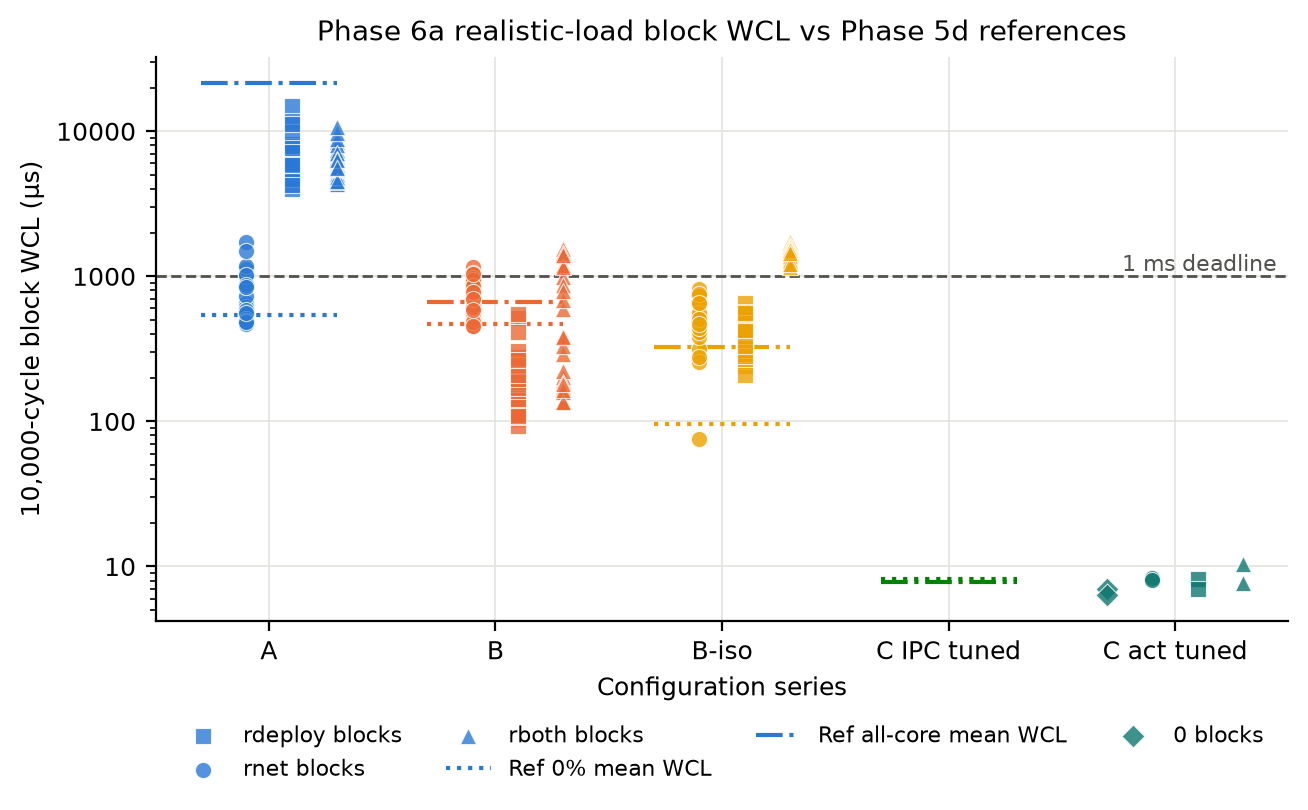
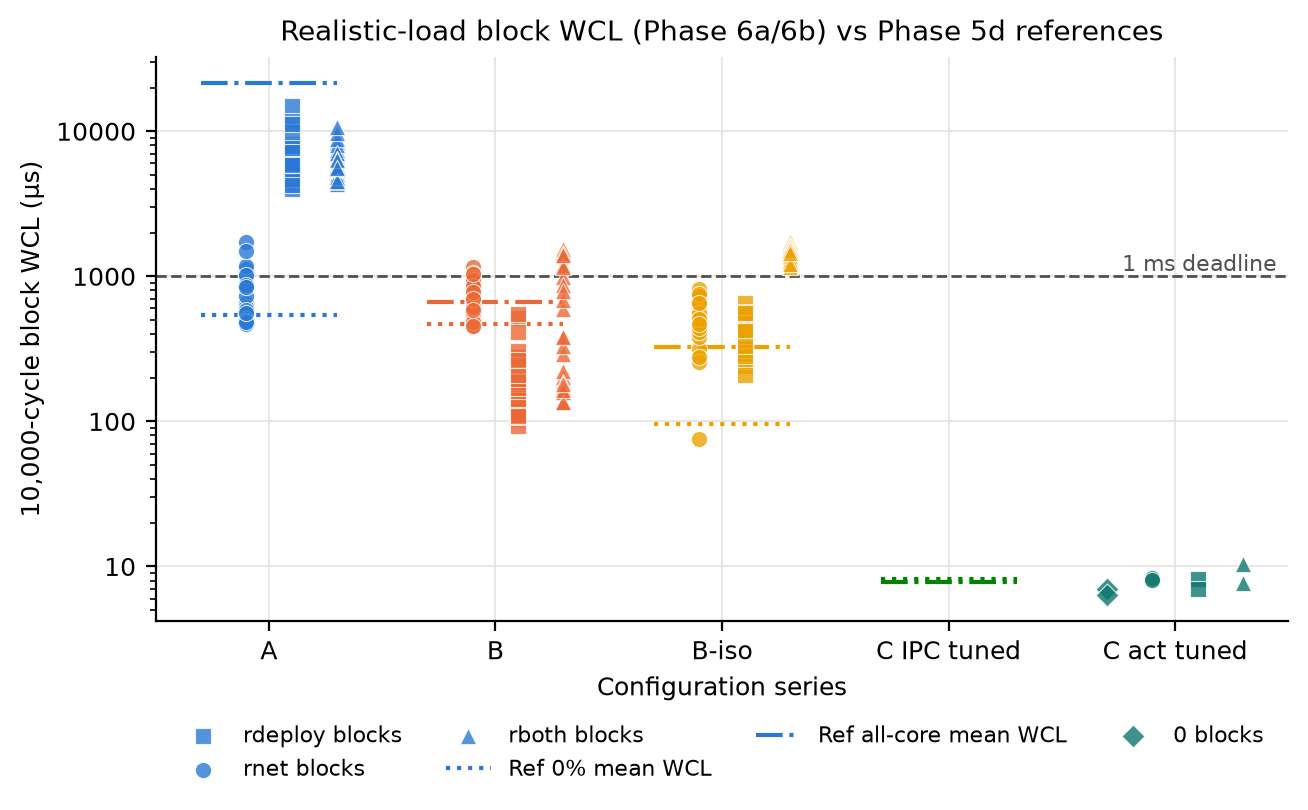
docs: results map, name glossary and folder READMEs; fix realload.md title

Changed region(s): [[0.2141, 0.0, 0.8869, 0.0617]]

diff --git a/benchmarks/analysis/compare_realload.py b/benchmarks/analysis/compare_realload.py
@@ -591,7 +591,7 @@ def _build_markdown(
     if cpu_df is None:
         cpu_df = cpu_interference(long_df)
     lines = [
-        "# Phase 6a Realistic-Load Comparison (R-net, R-deploy & R-both)",
+        "# Realistic-Load Comparison: Phase 6a (A, B, B-iso) and Phase 6b (C act) under R-net, R-deploy & R-both",
         "",
         "## Timing Summary",
         "",
@@ -814,7 +814,7 @@ def _plot_block_wcl(records: list[dict], ref_map: dict[tuple[str, str], tuple[st
     ax.set_xlim(-0.5, len(SERIES_ORDER) - 0.5)
     ax.set_xlabel("Configuration series")
     ax.set_ylabel("10,000-cycle block WCL (µs)")
-    ax.set_title("Phase 6a realistic-load block WCL vs Phase 5d references", fontsize=10)
+    ax.set_title("Realistic-load block WCL (Phase 6a/6b) vs Phase 5d references", fontsize=10)
     if has_points:
         ax.legend(loc="upper center", bbox_to_anchor=(0.5, -0.15), fontsize=8, ncol=4)
     fig.tight_layout()
@@ -1019,7 +1019,7 @@ def main(argv: list[str] | None = None) -> int:
     parser = argparse.ArgumentParser(description=__doc__)
     parser.add_argument("--raw", type=Path, default=repo / "results" / "raw")
     parser.add_argument("--ref", type=Path, default=repo / "results" / "phase5d" / "compare_long.csv")
-    parser.add_argument("--out", type=Path, default=repo / "results" / "phase6a")
+    parser.add_argument("--out", type=Path, default=repo / "results" / "phase6b")
     args = parser.parse_args(argv)
     compare_realload(args.raw, args.ref, args.out)
     return 0

diff --git a/README.md b/README.md
@@ -67,10 +67,57 @@ Every configuration runs the **same minimal 10 ms control tick**; the analytics 
 | 2 | Configs A and B under `stress-ng` 0/50/100 % + Tests 1–5 (I/O, endurance, affinity, mlock, FIFO vs RR) | Done |
 | 4.5 | Config C baseline: MCU timing under Linux stress, no IPC | Done |
 | 5 / 5b–5d | Config C with IPC, tuned variant, repeats, fair three-way comparison | Done |
-| 6a | Realistic load tiers `rnet` / `rdeploy` (and `rboth`) for A, B, B-iso | Runs in progress |
-| 6b | Full chain to an emulated drive (Config C `act`) | Runs in progress |
+| 6a | Realistic load tiers `rnet` / `rdeploy` / `rboth` for A, B, B-iso (2 repeats) | Done |
+| 6b | Full chain to an emulated drive (Config C `act`, 4 load tiers, 2 repeats) | Done |
 
 **Milestones:** M3 presentation + demo on Dec 1, 2026; M4 final report (IEEE format, ≤ 15 pages) on Jan 5, 2027.
+
+---
+
+## 🗺 Where to Find the Results
+
+**Start here (headline results):**
+
+| Question | File |
+| :--- | :--- |
+| A vs B vs B-iso vs C under synthetic `stress-ng` load (one lateness definition for all) | `results/phase5d/compare_configs.md` (+ `wcl_by_tier.png`, `cdf_100.png`, `cdf_allcore.png`) |
+| The same configs under realistic load (`rnet`, `rdeploy`, `rboth`) | `results/phase6b/realload.md` (+ `block_wcl.png`, `cpu3_kernel_work.png`) |
+| Does every speed command reach the emulated drive, and how fast? | `results/phase6b/drive.md` |
+
+**Every phase, from board run to result** (all paths relative to the repository root; the board scripts run on the UNO Q, the harness and analysis on the PC):
+
+| Phase | What it tests | Run with | Raw data in `results/raw/` | Analysis (`benchmarks/analysis/` unless noted) | Results |
+| :--- | :--- | :--- | :--- | :--- | :--- |
+| 2 | A and B under `stress-ng` 0 / 50 / 100 % | `benchmarks/run_benchmark.sh` | `A_*.csv`, `B_*.csv` | `analyze_latency.py` | `results/summary.md`, `results/plots/lateness_*.png` |
+| 2 (Tests 1–5) | I/O contention, 10,000-cycle endurance, core affinity, `mlockall`, FIFO vs RR | `benchmarks/run_advanced_experiments.sh` | `test1_*.csv` … `test5_*.csv` | `results/parse_advanced_metrics.py`, `results/plot_advanced_results.py` | `results/plots/test*.png` |
+| 4.5 | Config C baseline: MCU loop under Linux stress, no IPC (first referee) | harness modes `sanity`, `0`, `50`, `100` | `C_*.csv`, `config_c_dwt_*.csv`, `config_c_referee_*.csv` | `analyze_latency.py`, `analyze_referee.py` | `results/summary.md` (C rows), `results/referee_p45.md` |
+| Clock check | Why the MCU's Zephyr clock drifts against its DWT counter | `benchmarks/diagnostics/run_clock_check.py` | `clock_diagnostics_2026-10-19.csv` | same script | `results/clock_diagnostics_summary.md` |
+| 5 | Config C with IPC (Linux setpoints over RouterBridge); baseline re-run with the DWT referee | harness `b2-*`, `ipc-*` | `baseline_dwtref/`, `ipc/` | `analyze_latency.py`, `analyze_referee.py`, `analyze_ipc.py`, `pulse_pattern.py`, `compare_baseline_ipc.py` | `results/baseline_dwtref/`, `results/ipc/` (`compare_baseline_vs_ipc.md`) |
+| 5b / 5c | Repeats; tuned variant (MCU loop above the bridge thread); stock baseline repeat 4 | harness `b2-*`, `ipc-*`, `b2t-*`, `ipct-*` with `--rep N` | `*_r2/`, `*_r3/`, `baseline_dwtref_r4/`, `baseline_tuned*/`, `ipc_tuned*/` | the Phase 5 scripts + `aggregate_repeats.py`, `ipc_attribution.py` | `results/phase5b/`, one `results/<folder>/` per raw folder |
+| 5d | Fair comparison of A, B, B-iso and C, incl. all-core stress | `benchmarks/run_benchmark_5d.sh`; harness `*-allcore` | `linux_r1/`–`linux_r3/`, `*_allcore*/` | `compare_configs.py` (+ `aggregate_repeats.py`, `ipc_attribution.py`) | **`results/phase5d/`**, `results/linux_r*/` |
+| 6a | A, B, B-iso under realistic load (`rnet`, `rdeploy`, `rboth`) | `benchmarks/run_benchmark_6r.sh` + `benchmarks/realload/pc_traffic.py` | `real_r1/`, `real_r2/`, `real_calibration/` | `compare_realload.py` | **`results/phase6b/realload.md`** (Phase 6a and 6b are analysed together) |
+| 6b | Full chain: Config C under the same loads, speed command as 500 Hz PWM to board 3 | harness `act-*`; PWM check `benchmarks/diagnostics/run_pwm_loopback.py` | `act_tuned*/`, `pwm_loopback_2026-11-17/` | `compare_realload.py`, `analyze_drive.py` | **`results/phase6b/`**, `results/diagnostics/pwm_loopback_summary.md` |
+
+More detail: `results/README.md` (every results folder) and `benchmarks/analysis/README.md` (every analysis script).
+
+## 🔤 Folder and File Names
+
+| Name | Meaning |
+| :--- | :--- |
+| `A`, `B`, `B-iso` (`_iso`) | The Linux configs (see "What Is Measured"); `_iso` = B on an isolated core 3 (affinity only, no `isolcpus`). |
+| `C`, `config_c_*` | Config C (MCU loop on the STM32). |
+| `baseline` | Config C without IPC: the MCU loop runs, Linux sends nothing. |
+| `ipc` | Config C with IPC: Linux analytics send setpoints to the MCU ("latest value wins"). |
+| `dwtref`, `b2` | Runs timed by the second, DWT-based referee (Phase 5 on); `b2` is the harness name for the baseline variant. |
+| `tuned`, `b2t`, `ipct` | The MCU loop runs at thread priority 4, above RouterBridge's `bridge` thread (5); "stock" = loop at 14, below it. |
+| `act` | Tuned IPC plus the PWM speed command to the drive board (Phase 6b). |
+| `0`, `50`, `100` | `stress-ng` load in %, on core 0. |
+| `allcore` | `stress-ng` on all four cores. |
+| `rnet`, `rdeploy`, `rboth` | Realistic load: bulk network traffic from the PC / a sensor stream into a containerised CNN / both at once. |
+| `_r2`, `_r3`, … | Repeat number; no suffix = repeat 1. `real_r<N>` and `linux_r<N>` are the Linux repeats. |
+| `sanity` | A 20-cycle wiring and readout check before each run; not analysed. |
+| `p45` | Phase 4.5. |
+| `L_rel`, WCL, DMR | Lateness relative to the run's best cycle, worst-case lateness, deadline-miss rate at 1 ms (see `results/phase5d/compare_configs.md`). |
 
 ---
 
@@ -79,7 +126,8 @@ Every configuration runs the **same minimal 10 ms control tick**; the analytics 
 ```
 CCU_OS_Term Project/
 ├── README.md
-├── docs/                          # Scope statement, progress reports, submitted documents
+├── Operating System Term Project.pdf   # The course's assignment sheet
+├── docs/                          # Scope statement, progress reports, submitted documents (see docs/README.md)
 ├── data/                          # CWRU download/slicing script; processed frames in data/processed/
 ├── mpu_linux/                     # Linux benchmark for Configs A/B (dual_thread_bench.c, FFT, Makefile)
 ├── benchmarks/
@@ -94,8 +142,9 @@ CCU_OS_Term Project/
 │   └── tests/                     # Harness tests (mocked boards)
 ├── results/
 │   ├── raw/                       # Original measurements (read-only)
-│   ├── phase5b/, phase5d/, ...    # Generated summaries, tables and plots per phase
-│   └── plots/
+│   ├── phase5b/, phase5d/, phase6b/   # Cross-run summaries per phase (headline results)
+│   ├── <raw folder name>/         # Per-run-set analysis (e.g. ipc_tuned_r2/), same name as in raw/
+│   └── plots/                     # Phase 2 / 4.5 figures (see results/README.md)
 ├── paper_ieee/                    # IEEEtran report sources and presentation slides
 └── unused/                        # Files no longer used (see unused/README.md)
 ```

diff --git a/results/README.md b/results/README.md
@@ -1,0 +1,46 @@
+# results/
+
+Everything here is either **original measurements** (`raw/`) or **generated by a script** from them. Nothing is edited by hand. The phase-by-phase map (which board script made which raw folder, and which analysis script reads it) is in the top-level `README.md`, section "Where to Find the Results".
+
+## Headline results
+
+| File | Content |
+| :--- | :--- |
+| `phase5d/compare_configs.md` | A, B, B-iso and Config C (stock / tuned, with / without IPC) under `stress-ng` 0 / 50 / 100 % and all-core, one lateness definition (`L_rel`) for all. Charts: `wcl_by_tier.png`, `cdf_100.png`, `cdf_allcore.png`. |
+| `phase6b/realload.md` | The same configs under realistic load (`rnet`, `rdeploy`, `rboth`), 2 repeats, with load evidence per run and the "Kernel work on CPU 3" table. Charts: `block_wcl.png`, `cpu3_kernel_work.png`. |
+| `phase6b/drive.md` | Phase 6b full chain: every speed command checked at the emulated drive (lost / wrong / extra), delays from tick to drive. |
+
+## Folder layout
+
+| Folder or file | Made by | Content |
+| :--- | :--- | :--- |
+| `raw/` | the board scripts and the Config C harness | Original measurements, read-only (see below). |
+| `phase5b/` | `aggregate_repeats.py`, `ipc_attribution.py`, `pulse_pattern.py` | Config C repeats summary, how often late pulses coincide with IPC messages, pulse-interval pattern. |
+| `phase5d/` | `compare_configs.py` (+ `aggregate_repeats.py`, `ipc_attribution.py` with all-core runs) | Headline comparison under synthetic load; `compare_long.csv` = one row per run. |
+| `phase6b/` | `compare_realload.py`, `analyze_drive.py` | Headline results under realistic load (Phase 6a and 6b together; there is no `phase6a/` folder). `*_long.csv` = one row per run; `cpu_interference.csv` = per-CPU kernel work per Linux run. |
+| `baseline_dwtref*/`, `baseline_tuned*/`, `ipc*/`, `ipc_tuned*/` | `analyze_latency.py`, `analyze_referee.py`, `analyze_ipc.py` | Per-run-set analysis, one folder per raw folder of the same name: `summary.md` (lateness KPIs), `referee_vs_dut.md` (referee board vs the DUT's own clock), `ipc_summary.md` (IPC folders: message delivery and round trip). `ipc/` also holds `compare_baseline_vs_ipc.md` and `pulse_pattern.md`. |
+| `linux_r1/` – `linux_r3/` | `analyze_latency.py` | Phase 5d Linux repeats (A, B, B-iso), `summary.md` per repeat. |
+| `diagnostics/` | `benchmarks/diagnostics/run_pwm_loopback.py` | PWM loopback check on board 3 (Phase 6b design check). |
+| `summary.md`, `summary.csv`, `plots/lateness_*.png` | `analyze_latency.py` on the files in the root of `raw/` | Phase 2 (A, B) and Phase 4.5 (Config C baseline) results. |
+| `plots/test*.png` | `plot_advanced_results.py` | Tests 1–5 (Phase 2). |
+| `referee_p45.md`, `referee_p45.csv` | `analyze_referee.py` | Phase 4.5: first referee vs the DUT clock. |
+| `clock_diagnostics_summary.md` | `benchmarks/diagnostics/run_clock_check.py` | Why the MCU's Zephyr clock drifts against its DWT counter (2026-10-19). |
+| `parse_advanced_metrics.py`, `plot_advanced_results.py` | — | Analysis scripts for Tests 1–5 (they live here, not in `benchmarks/analysis/`). |
+
+## `raw/` (original measurements, never edited)
+
+| Files or folders | Phase | Written by |
+| :--- | :--- | :--- |
+| `A_0.csv` … `B_100.csv` (root) | 2 | `benchmarks/run_benchmark.sh` |
+| `test1_*.csv` … `test5_*.csv` (root) | 2, Tests 1–5 | `benchmarks/run_advanced_experiments.sh` |
+| `C_0.csv` … `C_100.csv`, `config_c_dwt_*.csv`, `config_c_referee_*.csv` (root) | 4.5 | Config C harness (first referee, `k_cycle_get_32()` timestamps) |
+| `clock_diagnostics_2026-10-19.csv` (root) | clock check | `benchmarks/diagnostics/run_clock_check.py` |
+| `baseline_dwtref[_rN]/`, `ipc[_rN]/` | 5 | harness `b2-*`, `ipc-*` |
+| `baseline_tuned[_rN]/`, `ipc_tuned[_rN]/`, `baseline_dwtref_r4/` | 5b / 5c | harness `b2t-*`, `ipct-*`, `b2-*` |
+| `*_allcore[_rN]/`, `linux_r1/` – `linux_r3/` | 5d | harness `*-allcore`; `benchmarks/run_benchmark_5d.sh` |
+| `real_r1/`, `real_r2/`, `real_calibration/` | 6a | `benchmarks/run_benchmark_6r.sh`; model-width calibration |
+| `act_tuned[_<tier>][_rN]/` | 6b | harness `act-*` |
+| `pwm_loopback_2026-11-17/` | 6b design check | `benchmarks/diagnostics/run_pwm_loopback.py` |
+| `archive/` (local only, not in git) | — | Early test files, old sanity outputs, a failed run and two aborted runs; the aborted `real_r*_rnet_aborted_*` folders have a `README.txt` explaining the cause. |
+
+**File formats:** Linux files (`A_*`, `B_*`, `test*`, `real_r*/`, `linux_r*/`): one row per 10 ms cycle with `cycle, scheduled_ns, actual_wake_ns, lateness_ms, is_miss, …`. Config C: `C_*.csv` = DWT wake timestamps in 160 MHz cycles; `config_c_referee_*` = intervals measured by the referee board (row 0 is the gap before the first pulse and is excluded); IPC folders add `config_c_ipc_seq_*` (setpoint applied in each cycle) and `config_c_ipc_sender_*` (Linux send log); `act_*` folders add `config_c_act_*` (PWM writes) and `config_c_drive_*` (what board 3 saw). Lines starting with `#` are metadata. `env_*`, `counters_*`, `thermal_*`, `analytics_*` and `pc_traffic_*` files record the load, kernel counters, temperature and the PC traffic of each run.

diff --git a/benchmarks/analysis/README.md b/benchmarks/analysis/README.md
@@ -1,4 +1,33 @@
-# Latency analysis
+# Analysis scripts
+
+All scripts run on the PC (`.venv\Scripts\python <script> --help` for options), read only `results/raw/`, and write to `results/`. Each has a test file `test_<name>.py` with synthetic data (`cd benchmarks/analysis; python -m pytest -q`; nothing is written to `results/`).
+
+| Script | Phase | Reads | Writes | What it computes |
+| :--- | :--- | :--- | :--- | :--- |
+| `analyze_latency.py` | 2, 4.5, 5, 5d | the per-cycle CSVs of one raw folder (`--raw`) | `summary.{md,csv}` and plots in `--out` | Lateness KPIs per run: mean, σ_L, p99, p99.9, WCL, DMR at 0.2 / 1 ms (details below). |
+| `analyze_referee.py` | 4.5, 5 | `config_c_dwt_*` + `config_c_referee_*` (`--raw`) | `referee_vs_dut.{md,csv}` (`--out`) | The referee board's view of each Config C run against the DUT's own DWT clock (period, offset in ppm, jitter, misses). |
+| `analyze_ipc.py` | 5, 5b, 5d | `config_c_ipc_seq_*`, `config_c_ipc_sender_*` | `ipc_summary.{md,csv}` | Setpoint delivery over RouterBridge: messages sent / applied, round trip, age of the applied setpoint. |
+| `pulse_pattern.py` | 5, 5b | `config_c_dwt_*` | `pulse_pattern.{md,csv}` | Periodic disturbances in the MCU pulse intervals. |
+| `compare_baseline_ipc.py` | 5 | `results/summary.csv`, `results/baseline_dwtref/`, `results/ipc/` summaries | `results/ipc/compare_baseline_vs_ipc.md` | Phase 4.5 baseline vs DWT-referee re-run vs IPC, per stress tier. |
+| `aggregate_repeats.py` | 5b, 5d | the per-folder `results/*/summary.csv` | `repeats_summary.md`, `repeats_long.csv` (`--out`) | Config C repeats: mean [min–max] over repeats per variant and tier. |
+| `ipc_attribution.py` | 5b, 5d | IPC raw folders (`--raw`, several) | `ipc_attribution.{md,csv}` | How often a late MCU pulse coincides with a setpoint arrival. |
+| `compare_configs.py` | 5d | `linux_r*/` and all Config C folders | `results/phase5d/` | **Headline comparison** of A, B, B-iso and C under `stress-ng`, one lateness definition (`L_rel`). |
+| `compare_realload.py` | 6a, 6b | `real_r*/`, `act_tuned*/`, `results/phase5d/compare_long.csv` (`--ref`) | `results/phase6b/` (`--out`) | **Headline comparison** under realistic load; load evidence per run; kernel work per CPU (`cpu_interference.csv`). |
+| `analyze_drive.py` | 6b | `act_tuned*/` (`config_c_act_*`, `config_c_drive_*`, IPC logs) | `results/phase6b/drive.md`, `drive_long.csv` | Every speed command matched at the emulated drive: lost / wrong / extra, tick-to-drive delays. |
+
+The commands that produced the committed results:
+
+```bash
+# Phase 5d (from the repository root)
+python benchmarks/analysis/compare_configs.py --raw results/raw --out results/phase5d
+# Phase 6a + 6b
+python benchmarks/analysis/compare_realload.py --raw results/raw --ref results/phase5d/compare_long.csv --out results/phase6b
+python benchmarks/analysis/analyze_drive.py --raw results/raw --out results/phase6b
+```
+
+Tests 1–5 (Phase 2) use `results/parse_advanced_metrics.py` and `results/plot_advanced_results.py`.
+
+## `analyze_latency.py` in detail
 
 `analyze_latency.py` turns raw per-cycle logs from the benchmark runs into the
 KPIs defined in `docs/Project_Scope_Statement.md` §4.3.2 and the figures listed in §5.

diff --git a/benchmarks/realload/README.md b/benchmarks/realload/README.md
@@ -1,0 +1,13 @@
+# realload/ — realistic Linux load (Phase 6a / 6b)
+
+The load the DUT's Linux side carries in the `rnet`, `rdeploy` and `rboth` tiers. It replaces synthetic `stress-ng` with work a deployed edge controller really does.
+
+| File | Runs on | What it does |
+| :--- | :--- | :--- |
+| `realload.sh` | DUT (Linux) | `start <tier> <label> <outdir> <pc_ip> [iso]`, `check <tier>`, `stop`, `status`. Starts the tier's receivers, a sampler (CPU load, temperature, frequency every ≈ 10 s) and `/proc` counter snapshots; `check` confirms the load is really there (`LOADCHECK OK` / `FAIL`). Called by `benchmarks/run_benchmark_6r.sh` and the Config C harness. |
+| `pc_traffic.py` | PC | `bulk` = TCP bulk traffic to port 5557 (≈ 6.5 MB/s over Wi-Fi); `ingest` = a 12 kHz float32 sensor stream (48,000 B/s) to port 5555. Writes a JSON summary (bytes, rate, reconnects). |
+| `Dockerfile`, `analytics_node.py`, `make_model.py` | DUT (Docker image `realload:1`) | The `rdeploy` analytics node: receives the sensor stream, cuts 1,024-sample windows and runs a small 1D-CNN with ONNX Runtime (3 threads), ≈ 11.7 inferences/s. The CNN has fixed-seed **random weights on purpose**: it is background load, not a fault classifier. |
+| `model_width.txt` | both | The CNN width chosen by calibration (one inference ≈ 40 ms on the board); raw calibration data in `results/raw/real_calibration/`. |
+| `tests/` | PC | `python -m pytest -q benchmarks/realload/tests` |
+
+Tiers: `rnet` = `socat` sink on port 5557 + PC `bulk`; `rdeploy` = the analytics container on port 5555 + PC `ingest`; `rboth` = both at once. In the B-iso runs the receivers, the container and the sampler are limited to CPUs 0–2.

diff --git a/docs/README.md b/docs/README.md
@@ -1,0 +1,13 @@
+# docs/
+
+Course deliverables and planning documents. The course's assignment sheet is `../Operating System Term Project.pdf`.
+
+| File | What it is | Status |
+| :--- | :--- | :--- |
+| `Project_Scope_Statement.md` (`.pdf`) | The project's specification: research question, configurations, methodology and metric definitions (§4.3), hypotheses (§8). Code and analysis cite its section numbers. | Reference. Its milestone dates (Oct 20 / Nov 10 / Dec 29) are the old ones, and it still mentions a CNN in the measured workload, which the project dropped (the analytics are FFT + rules; the Phase 6 CNN is background load only). |
+| `Operating System_Project abstract.pdf`, `Abstract and Intro.docx` | M1 project abstract (PDF) and its Word draft with the introduction. | M1 (Sep 29) |
+| `Operating System_Progress Report.pdf`, `Progress Report - Heterogeneous OS Benchmarking on the Arduino UNO Q.docx` | M2 progress report (PDF) and its Word source. | M2 (Oct 27) |
+| `Week_04_06_Progress_Report.md` | Lab progress report, weeks 4–6 (Phase 2, Config C baseline). | Done |
+| `Week_07_10_Progress_Report.md` | Lab progress report, weeks 7–10 (Phase 5). | Draft: some values still marked TBD |
+
+Current milestones: M3 presentation + demo on Dec 1, 2026; M4 final report (IEEE format, ≤ 15 pages) on Jan 5, 2027; sources in `../paper_ieee/`.

diff --git a/benchmarks/drive_emu/README.md b/benchmarks/drive_emu/README.md
@@ -1,0 +1,9 @@
+# drive_emu/ — emulated motor drive (board 3, Phase 6b)
+
+An Arduino App for a **third UNO Q** that plays the motor drive in the full chain: the DUT's MCU sends the speed command as a 500 Hz PWM signal, and this board records when each new command arrives.
+
+- **Wiring:** DUT D3 (PWM speed command) → board 3 D8; DUT D2 (tick) → board 3 D2; grounds joined.
+- **MCU (`sketch/`):** interrupts on D2 (tick) and on both edges of D8 (PWM), timestamped with the DWT cycle counter (160 MHz). A **change event** is a PWM period whose high time differs from the previous one by more than 20 µs (1 % of the 2 ms period). Duty = 0.8 × setpoint, so the drive decodes `setpoint = 125 × high / period`. RPCs: `start_capture`, `stop_capture`, `get_info`, `get_events_chunk`.
+- **Linux side (`python/main.py`):** command file `/tmp/drive_cmd` (`START`, `STOP <csv path>`), status file `/tmp/drive_status` (`READY`, `RECORDING`, `STOPPED <n> <file>`), driven by the Config C harness (`act-*` modes).
+- **Output:** `config_c_drive_<tag>.csv` in the run's raw folder; analysed by `benchmarks/analysis/analyze_drive.py`.
+- Deployed at `/tmp/drive_emu` on board 3. While the wires are connected, only this app may run on board 3.

diff --git a/benchmarks/referee/README.md b/benchmarks/referee/README.md
@@ -1,0 +1,9 @@
+# referee/ — the external timing referee (board 2)
+
+An Arduino App for a **second UNO Q** that times the DUT's 10 ms loop from outside, so Config C is not judged only by the DUT's own clock.
+
+- **Wiring:** DUT D2 → referee D2, grounds joined. The DUT raises D2 for 500 µs at every tick.
+- **MCU (`sketch/`):** an interrupt on each rising edge of D2 stores the time since the previous edge, read from the referee's own DWT cycle counter (160 MHz), for up to 10,000 edges. RPCs for the Linux side: `start_capture`, `stop_capture`, `get_count`, `get_delta_at`, `get_deltas_chunk`.
+- **Linux side (`python/main.py`):** polls the command file `/tmp/referee_cmd` (`START <n>`, `STOP <csv path>`) and reports its state in `/tmp/referee_status` (`READY`, `RECORDING`, `STOPPED <n> <file>`). The Config C harness writes these files through `docker exec`.
+- **Output:** `config_c_referee_<tag>.csv` in the run's raw folder (row 0 = the gap before the first pulse; excluded from analysis).
+- Deployed as the app `referee_bench`. The first referee (Phase 4.5) used `k_cycle_get_32()`; this DWT version is used from Phase 5 on (the `dwtref` runs).

diff --git a/benchmarks/diagnostics/README.md b/benchmarks/diagnostics/README.md
@@ -1,0 +1,10 @@
+# diagnostics/ — one-off hardware checks
+
+Checks that answer a design question before or beside the main runs. Each runner can also recompute its summary from saved raw data without hardware.
+
+| Check | Files | Question | Raw data → summary |
+| :--- | :--- | :--- | :--- |
+| Clock check (2026-10-19) | `clock_check/` (sketch), `run_clock_check.py` | Why does the MCU's Zephyr clock (`k_cycle_get_32()`, `micros()`) drift against its DWT cycle counter? (It loses cycles, mostly while asleep.) | `results/raw/clock_diagnostics_2026-10-19.csv` → `results/clock_diagnostics_summary.md`; recompute with `--from-csv` |
+| PWM loopback (2026-11-17) | `pwm_loopback/` (app), `run_pwm_loopback.py` | Can a 500 Hz PWM signal carry the speed command from the DUT to the drive board, and when does a new duty take effect? (Jumper D3 → D8 on one board.) | `results/raw/pwm_loopback_2026-11-17/` → `results/diagnostics/pwm_loopback_summary.md`; recompute with `--from-raw` |
+
+Both runners drive a real board when not given saved data; see each script's header for the exact usage.

diff --git a/benchmarks/pin_test/README.md b/benchmarks/pin_test/README.md
@@ -1,0 +1,8 @@
+# pin_test/ — Config C stock baseline DUT app (no IPC)
+
+The DUT app for the **Config C baseline**: the MCU runs the 10 ms loop (DWT timestamps + a 500 µs pulse on D2 each tick) while Linux sends nothing.
+
+- **MCU (`sketch/`):** built from `benchmarks/config_c_sender_sketch.ino`, stock priorities (loop thread below RouterBridge's `bridge` thread).
+- **Linux side (`python/main.py`):** intentionally idle; it only keeps the app container running. The harness talks to the MCU itself (`docker exec … Bridge.call(...)`).
+- **Used by:** harness modes `sanity`, `0`, `50`, `100` (Phase 4.5) and `b2-*` (baseline re-run with the DWT referee, Phase 5 on: raw folders `baseline_dwtref*`), and the clock diagnostics.
+- The tuned baseline (loop above the bridge thread) is `benchmarks/config_c_base_tuned/`.

diff --git a/results/phase6b/realload.md b/results/phase6b/realload.md
@@ -1,4 +1,4 @@
-# Phase 6a Realistic-Load Comparison (R-net, R-deploy & R-both)
+# Realistic-Load Comparison: Phase 6a (A, B, B-iso) and Phase 6b (C act) under R-net, R-deploy & R-both
 
 ## Timing Summary
 
